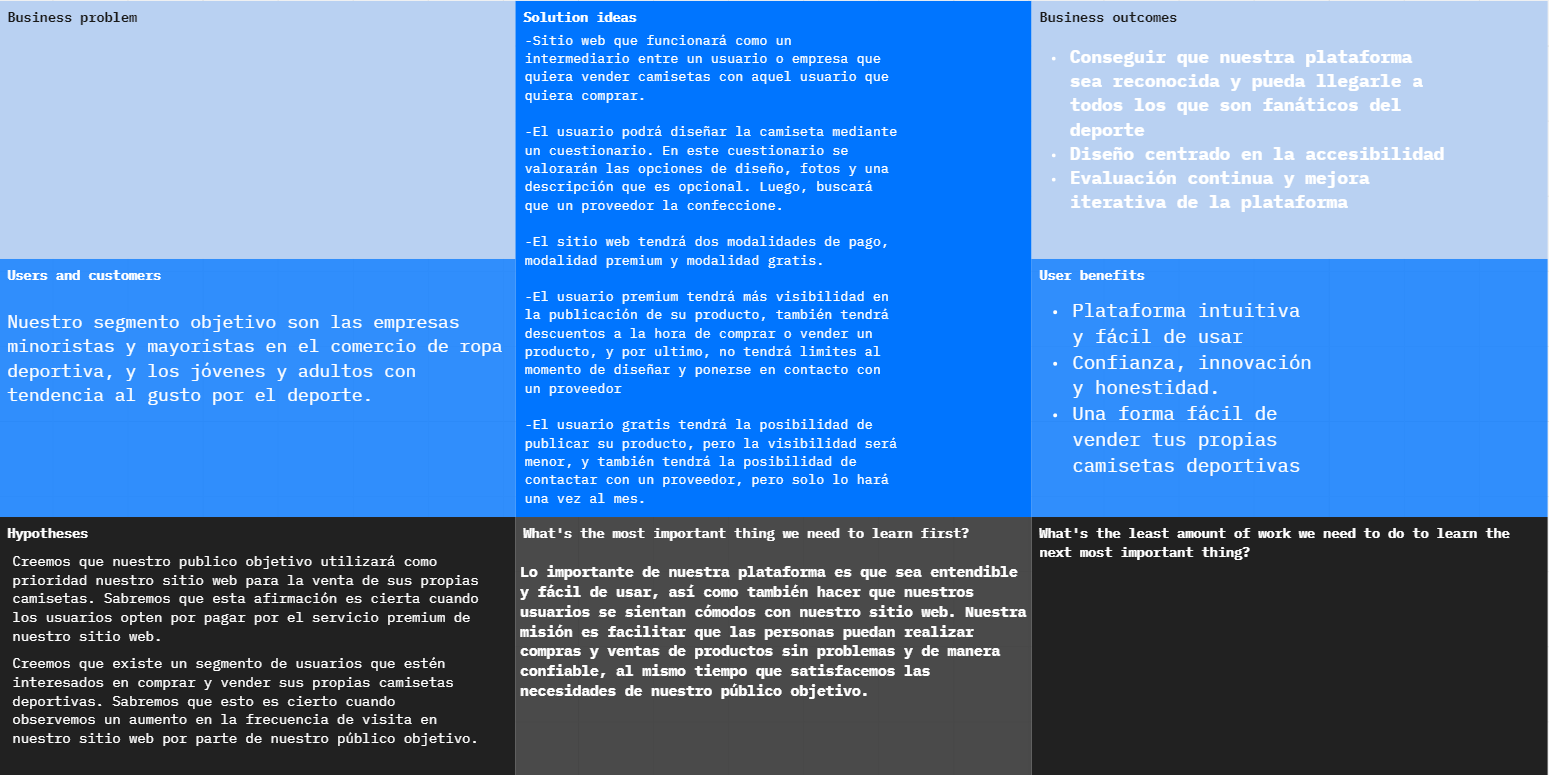
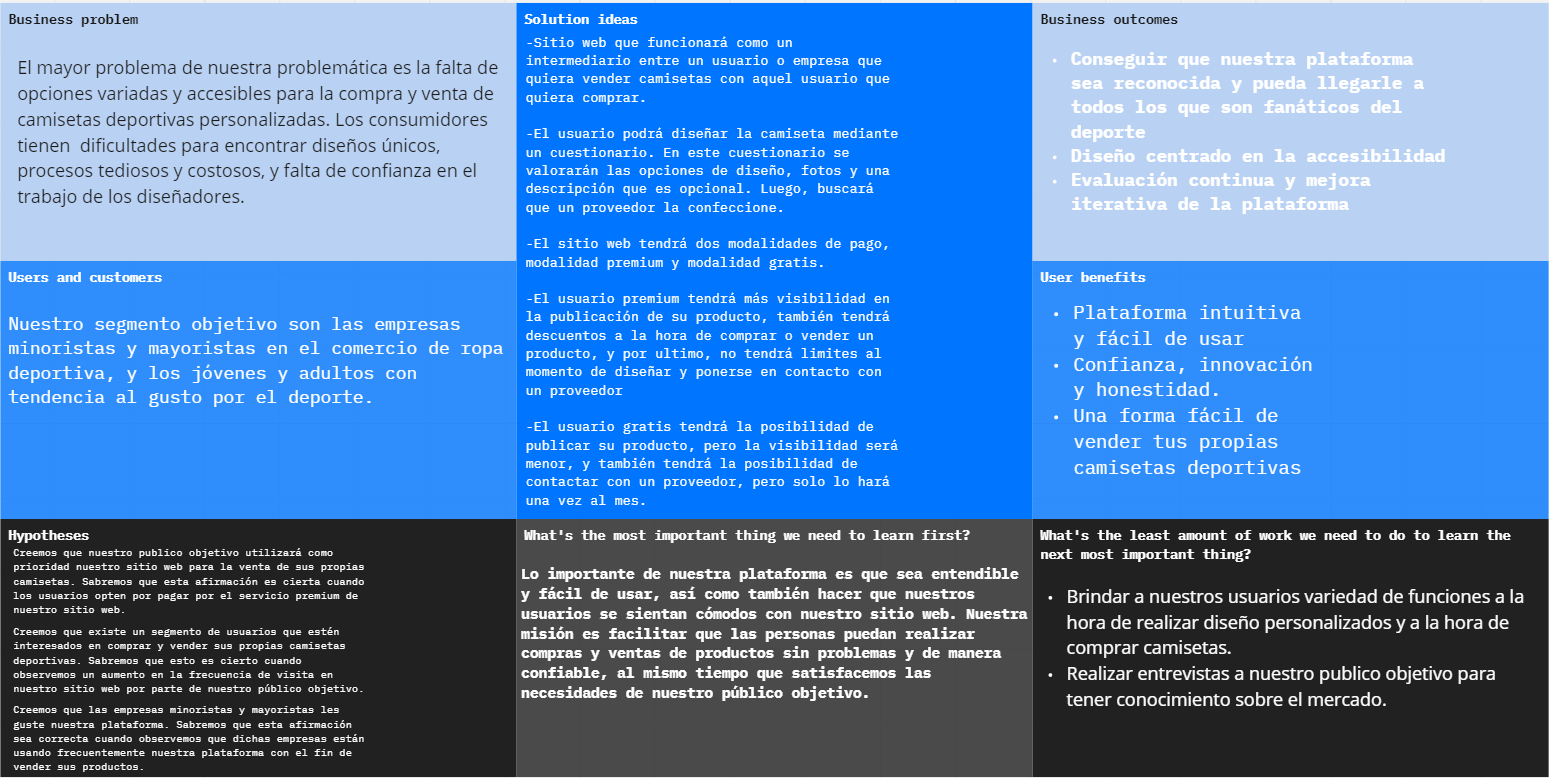
`feat(1.2.)`: updated hypothesis statements & lean ux canvas

diff --git a/README.md b/README.md
@@ -382,6 +382,8 @@ Las estadísticas revelan un creciente interés por la personalización de produ
 
 <li><b>Creemos que</b>, si no proporcionamos contenido a nuestro sitio web y no priorizamos a los usuarios no premium ofreciéndoles una variedad de opciones, perderá interés nuestra plataforma. <b>Sabremos que</b> esta afirmación es correcta <b>cuando</b> observemos una reducción en el número de usuarios en la pagina.</li>
 
+<li><b>Creemos que</b> las empresas minoristas y mayoristas les guste nuestra plataforma. <b>Sabremos que</b> esta afirmación sea correcta <b>cuando</b> observemos que dichas empresas están usando frecuentemente nuestra plataforma con el fin de vender sus productos.</li>
+
 </ol>
 
 #### 1.2.2.4. Lean UX Canvas
